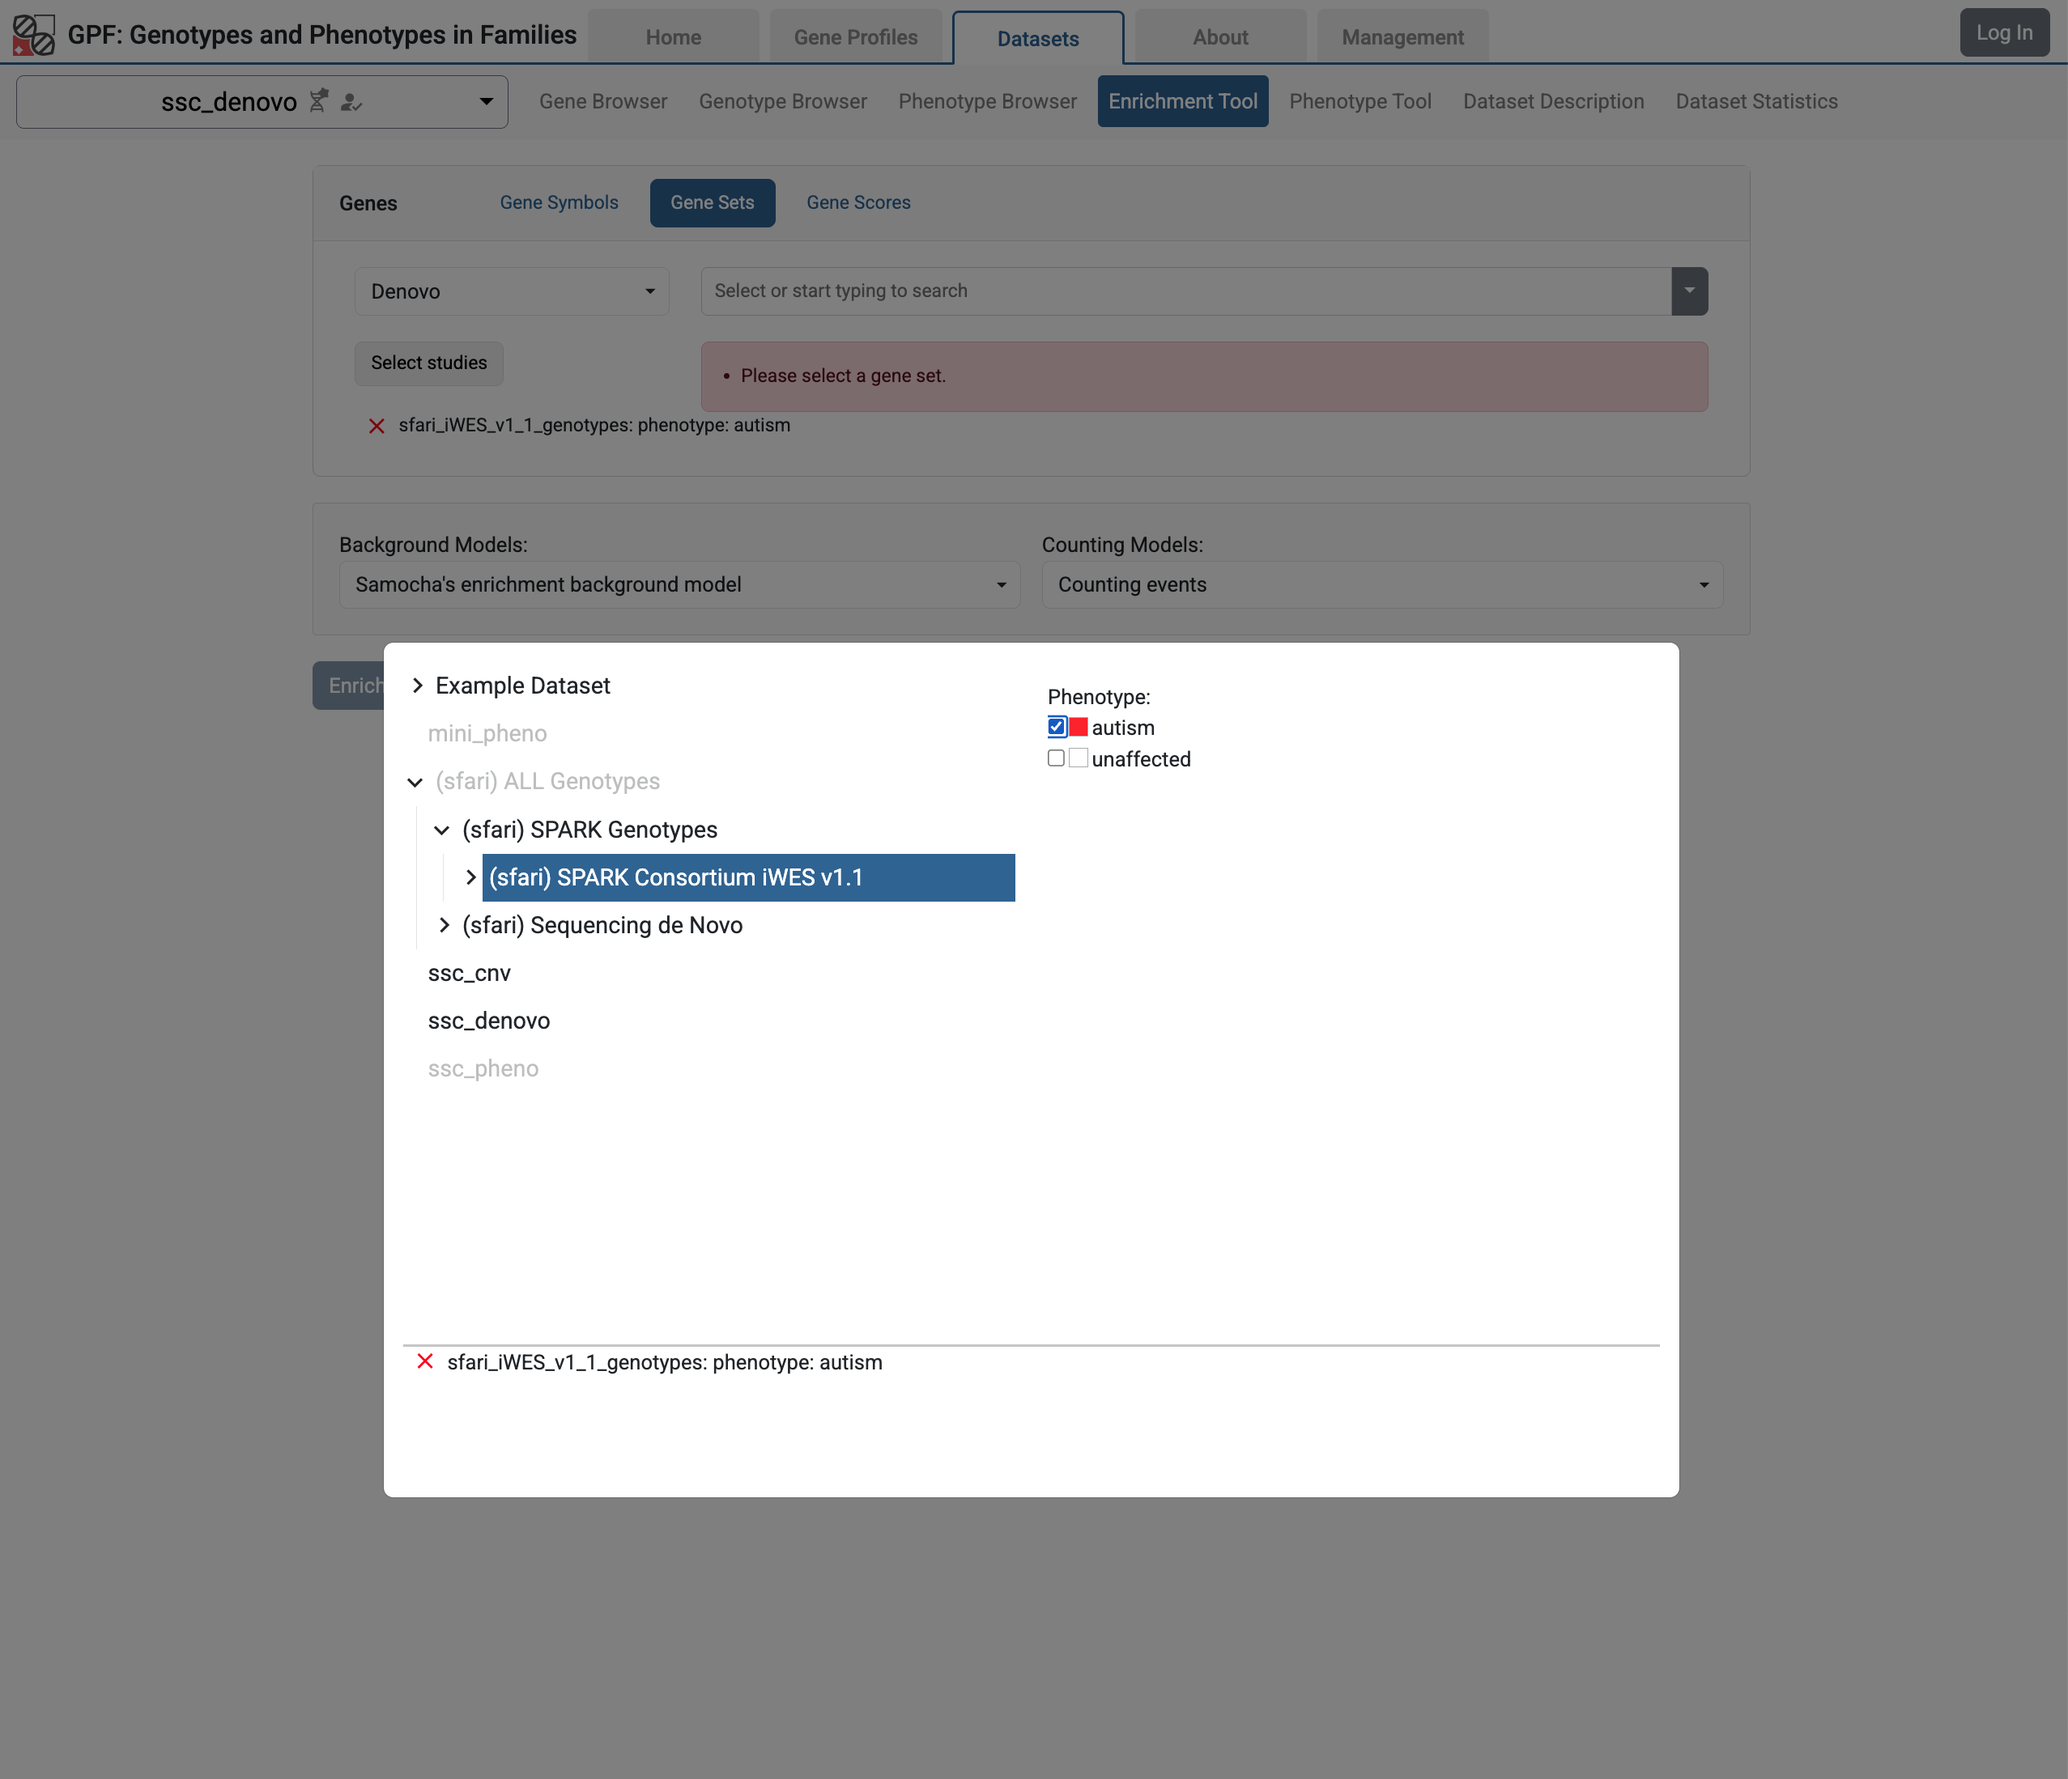
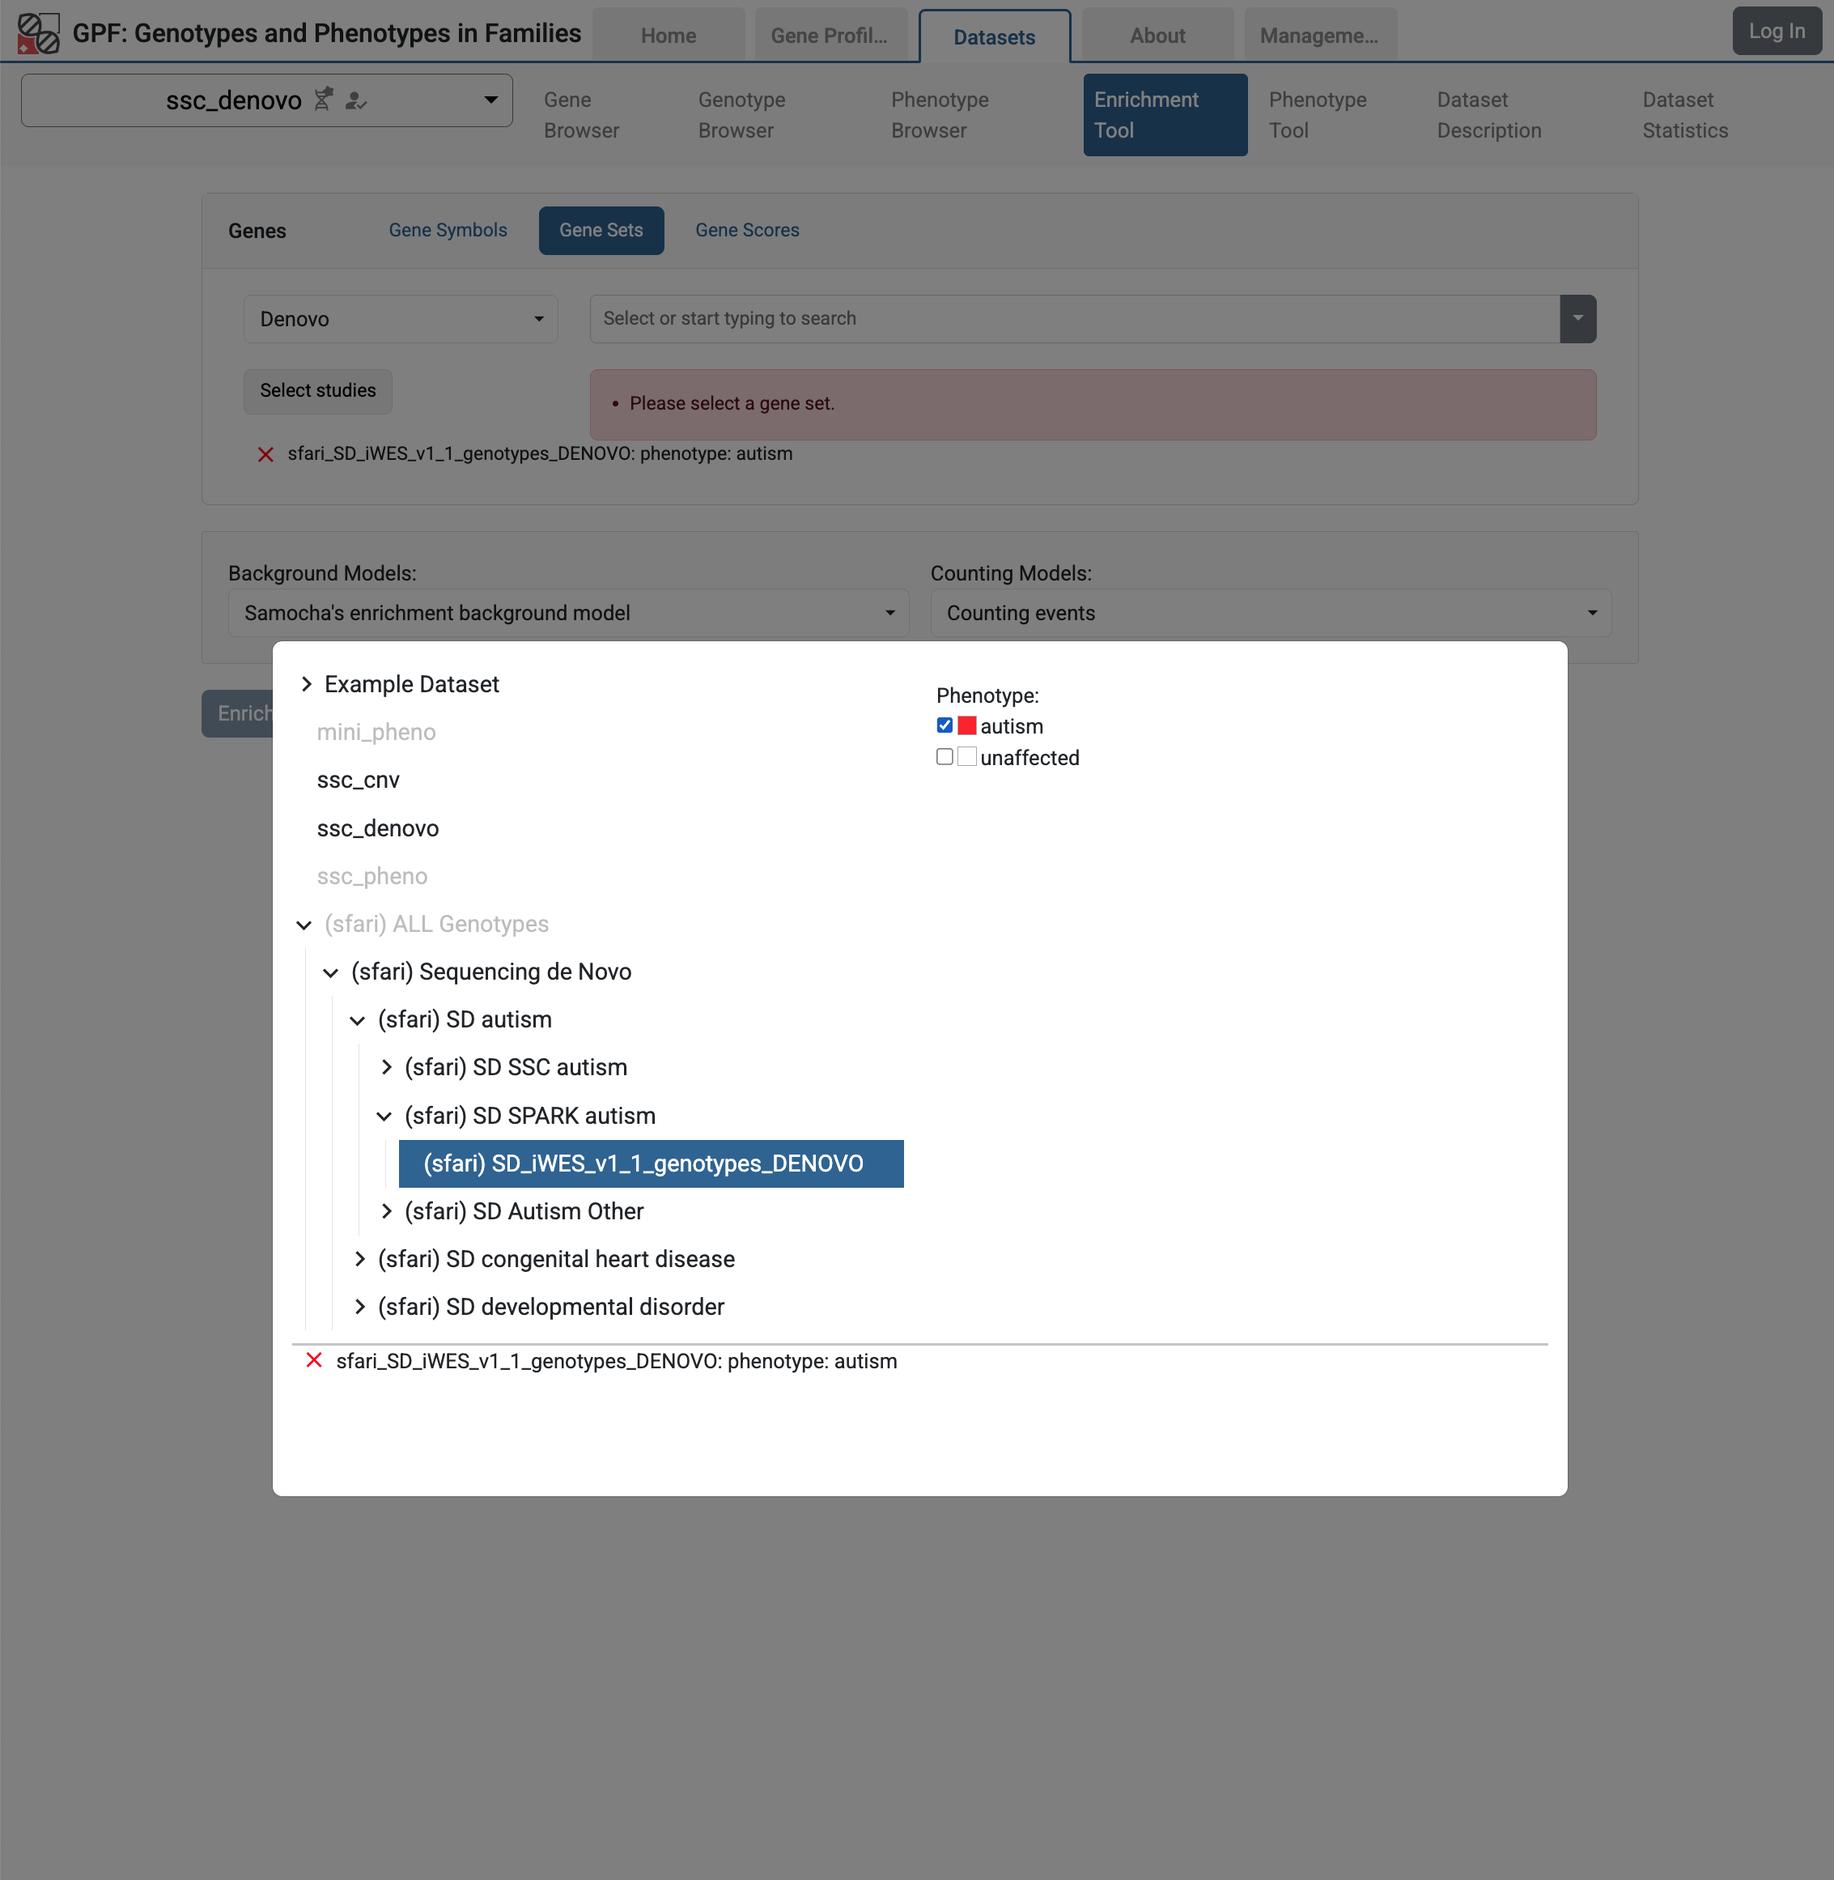
Reorganization of GSG with federation

diff --git a/userdocs/administration/getting_started/getting_started_with_federation.rst b/userdocs/administration/getting_started/getting_started_with_federation.rst
@@ -11,27 +11,6 @@ SFARI GPF instance and your local GPF instance. This will allow you to access
 the data and resources you have access to on the SFARI GPF instance from your
 local GPF instance.
 
-Federation tokens
-+++++++++++++++++
-
-Federation tokens are used to authenticate and authorize access to the
-federated GPF instance.
-
-Let us create a federation token for the SFARI GPF instance. You need to log in
-to the SFARI GPF instance, go to *User Profile*, select *Federation Tokens*,
-and create a new federation token:
-
-.. figure:: getting_started_files/federation_client_id_and_secret.png
-
-   Federation client ID and secret from the `User Profile`
-
-
-.. warning::
-
-   The federation client ID and secret are shown only once. Make sure to
-   copy them to a safe place. You will need them to configure the federation
-   on your local GPF instance.
-
 
 Configure federation on your local GPF instance
 +++++++++++++++++++++++++++++++++++++++++++++++
@@ -54,7 +33,7 @@ local GPF instance. You can do this by editing the
 
 .. code-block:: yaml
     :linenos:
-    :emphasize-lines: 31-36
+    :emphasize-lines: 31-34
 
     instance_id: minimal_instance
 
@@ -90,22 +69,18 @@ local GPF instance. You can do this by editing the
       - id: "sfari"
         host: "gpf.sfari.org"
         gpf_prefix: "hg38"
-        client_id: "Tqtgr2e3YPiDQS6CHvMdH7rPgTnxmoA46OWSbagV"
[1 lines of base64/hex data omitted]
 
 
 .. note::
 
-   The `client_id` and `client_secret` values are the federation client ID
-   and secret that you created in the previous step. Make sure to replace
-   them with the actual values.
-
-.. note::
-
-    If you don't have a user account on the SFARI GPF instance, you can
-    skip the ``client_id`` and ``client_secret`` lines. In this case, your local
-    instance will be able to access only the publicly available resources in
+    This configuration will allow your local
+    instance to access only the publicly available resources in
     the SFARI GPF instance.
+
+    In case you have a user account on the SFARI GPF instance, you can
+    create federation tokens and use them to access the remote instance
+    as described in the :ref:`Federation tokens`.
+
 
 When you are ready with the configuration, you can start the GPF instance using
 the ``wgpf`` tool:
@@ -120,11 +95,6 @@ the SFARI remote instance in the `Home Page`:
 .. figure:: getting_started_files/federation_home_page.png
 
    Home page with studies from the SFARI GPF instance
-
-.. note::
-
-    The federation displays only the studies and resources to which you
-    have access.
 
 .. warning::
 
@@ -146,7 +116,9 @@ From `Gene Sets` choose `Denovo`:
 
    Enrichment Tool for `ssc_denovo` study
 
-Then from the studies hierarchy choose `(sfari) SPARK Consortium iWES v1.1`
+Then from the studies hierarchy choose `(sfari) Sequencing de Novo /
+(sfari) SD Autism / (sfari) SD SPARK Autism /
+(sfari) SD iWES_v1_1_genotypes_DENOVO`
 study and select the `autism` phenotype.
 
 .. figure:: getting_started_files/federation_enrichment_tool_denovo_gene_set.png
@@ -155,11 +127,11 @@ study and select the `autism` phenotype.
    gene sets
 
 Now you can choose a de Novo gene set computed for the remote study
-`SPARK Consortium iWES v1.1`:
+`SD_iWES_v1_1_genotypes_DENOVO`:
 
 .. figure:: getting_started_files/federation_enrichment_tool_iwes_denovo_gene_sets.png
 
-    De Novo gene set from SPARK Consortium iWES v1.1 study
+    De Novo gene set from SD_iWES_v1_1_genotypes_DENOVO study
 
 Let us select the LGDs de Novo gene set and run the `Enrichment Tool`:
 
@@ -167,3 +139,49 @@ Let us select the LGDs de Novo gene set and run the `Enrichment Tool`:
 
    Enrichment Tool for `ssc_denovo` result page
 
+
+Federation tokens
++++++++++++++++++
+
+Federation tokens are used to authenticate and authorize access to the
+federated GPF instance.
+
+Let us create a federation token for the SFARI GPF instance. You need to log in
+to the SFARI GPF instance, go to *User Profile*, select *Federation Tokens*,
+and create a new federation token:
+
+.. figure:: getting_started_files/federation_client_id_and_secret.png
+
+   Federation client ID and secret from the `User Profile`
+
+
+.. warning::
+
+   The federation client ID and secret are shown only once. Make sure to
+   copy them to a safe place. You will need them to configure the federation
+   on your local GPF instance.
+
+Once you have the federation client ID and secret, you can configure your local
+GPF instance to use them. You need to edit the
+``minimal_instacne/gpf_instance.yaml`` file and add the lines 5-6 to the
+``remotes`` section:
+
+.. code-block:: yaml
+    :linenos:
+    :emphasize-lines: 5-6
+
+    remotes:
+      - id: "sfari"
+        host: "gpf.sfari.org"
+        gpf_prefix: "hg38"
+        client_id: "Tqtgr2e3YPiDQS6CHvMdH7rPgTnxmoA46OWSbagV"
[1 lines of base64/hex data omitted]
+
+This will allow your local GPF instance to have access to the resources in
+SFARI GPF instance that you have access to.
+
+.. warning::
+
+    The federation client ID and secret in the example above are
+    placeholders and should not be used. You need to replace them with
+    your own federation client ID and secret.
